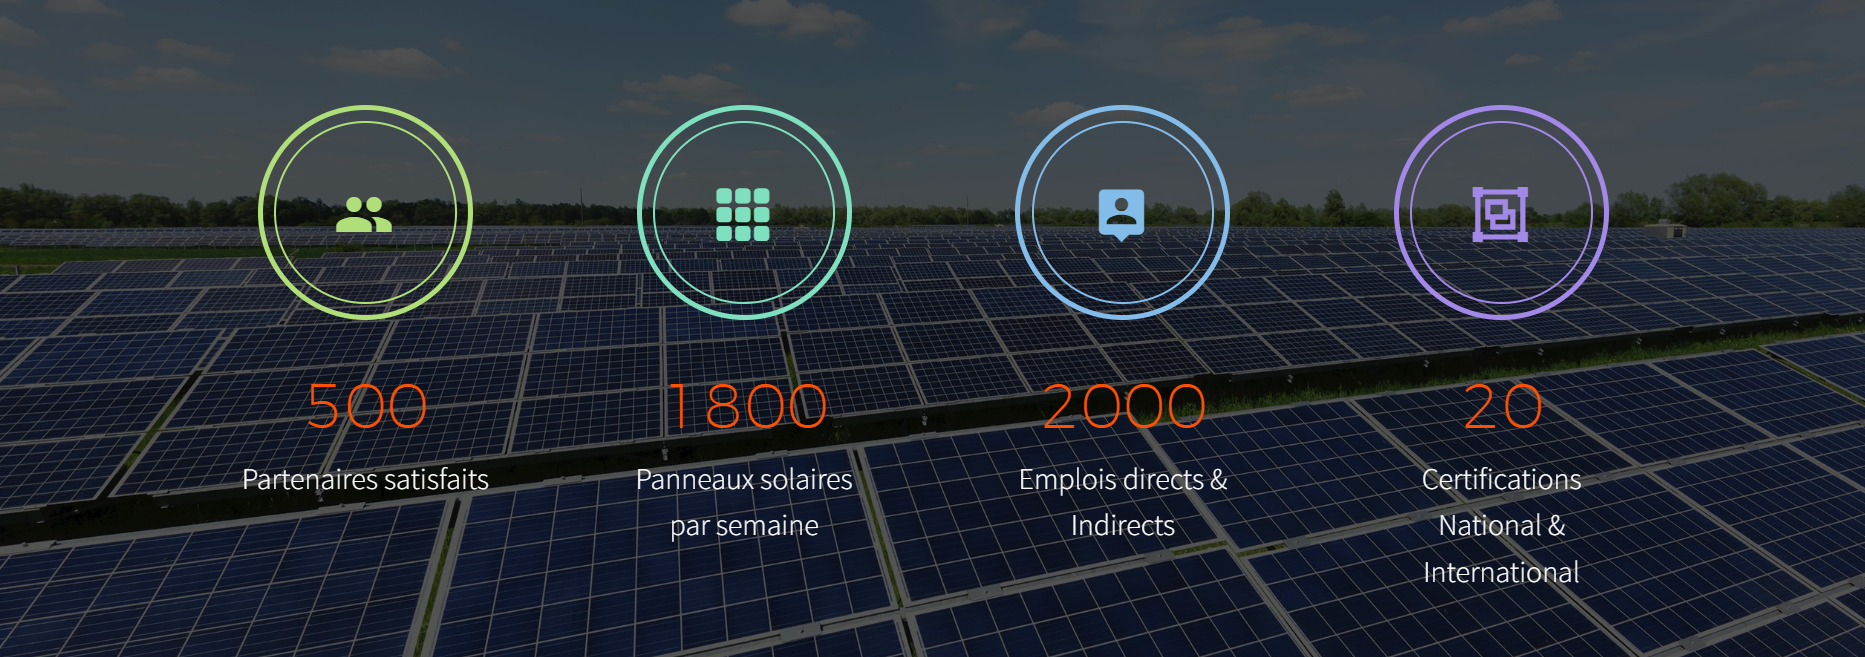
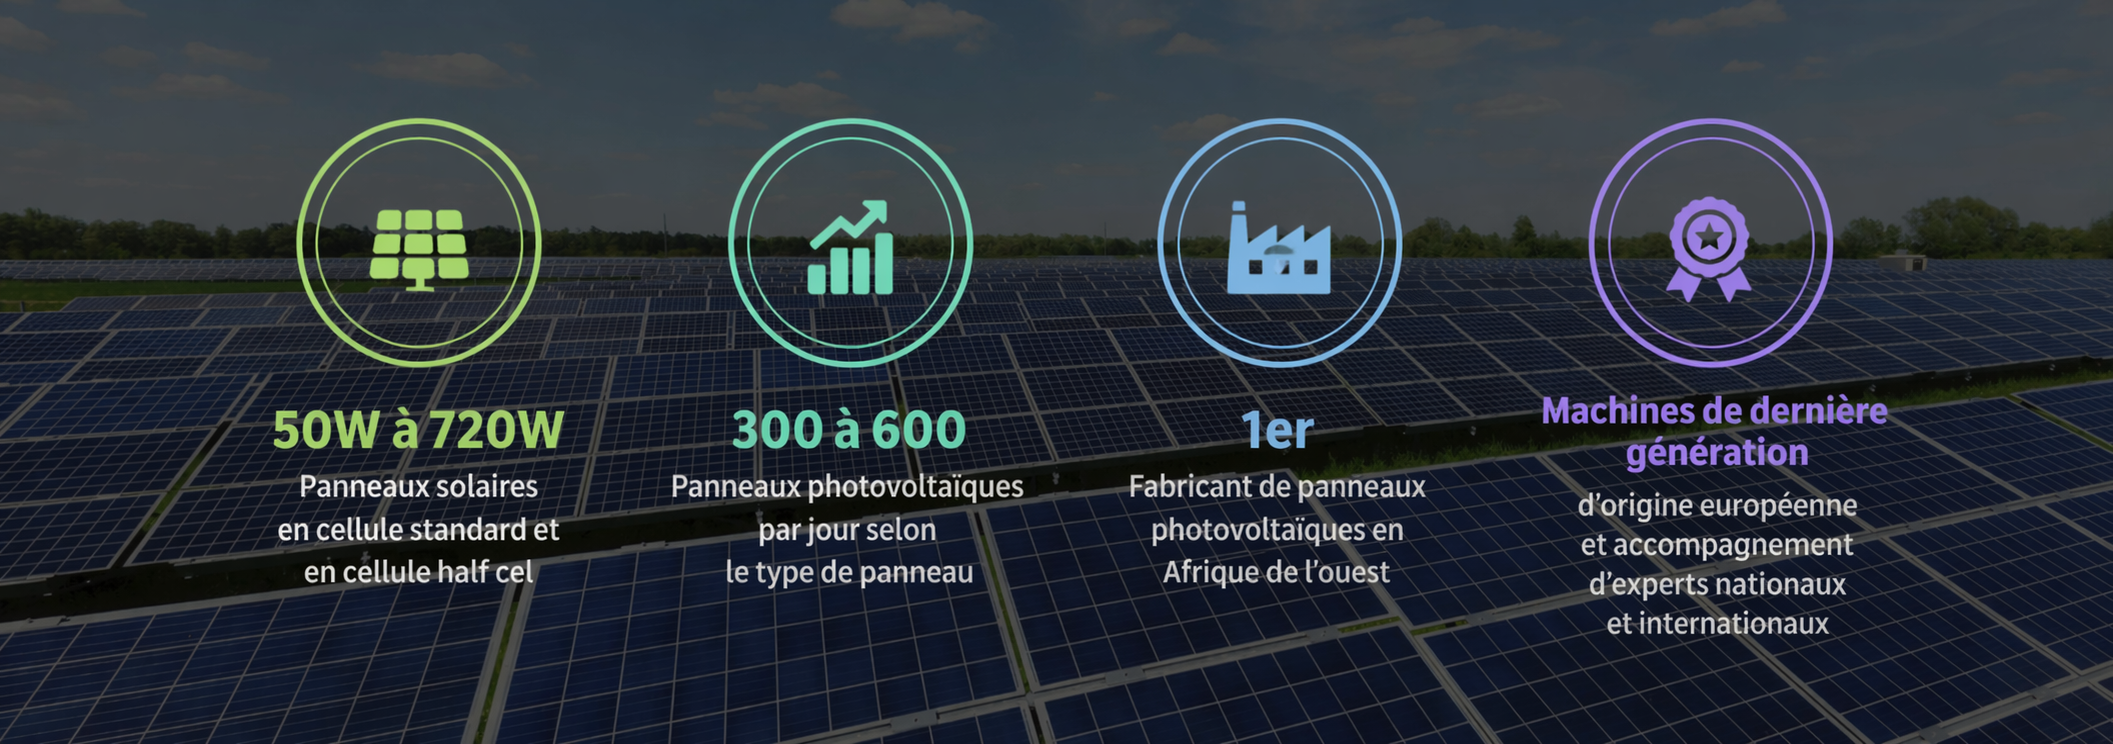
Mise à jour de l'application

Changed region(s): [[0.0, 0.1522, 1.0, 1.0], [0.933, 0.274, 0.9952, 0.3044]]

diff --git a/src/data/siteContent.js b/src/data/siteContent.js
@@ -510,8 +510,8 @@ export const subsidiaries = [
       },
       {
         tag: "GPL",
-        title: "Une offre Eco Gaz visible dans les supports",
-        text: "Les visuels de la filiale montrent aussi une offre GPL structurée autour des bouteilles Eco Gaz. Cet axe renforce le positionnement de proximité de la marque au-delà du carburant classique.",
+        title: "Offre Eco Gaz",
+        text: "Eco Oil propose des bouteilles de gaz qui repondent aux normes d'exigence en matière de sécurité. Elle se positionne comme un acteur clé de",
         image: {
           src: ecoOilGaz,
           alt: "Offre Eco Gaz de Eco Oil",
@@ -792,22 +792,44 @@ export const subsidiaries = [
     },
     logo: fasoEnergyLogo,
     watermarkLabel: "Faso Energy",
-    summary:
-      "Filiale industrielle dédiée à la fabrication de panneaux photovoltaïques, avec une ambition de production locale, de déploiement solaire et de montée en puissance régionale.",
-    description:
-      "Située dans la zone industrielle de Kossodo, Faso Energy se présente comme un acteur de la fabrication locale de panneaux photovoltaïques au Burkina Faso. Les supports montrent une vraie base industrielle, des équipes au travail, des lignes de fabrication, des panneaux en stockage et une communication orientée performance, qualité et transition énergétique.",
+    summary: "",
+    description: `Située dans la zone industrielle de Kossodo, Faso Energy est le premier fabriquant de panneaux photovoltaïques en Afrique de l’ouest.  Faso Energy se positionne comme un acteur clé dans la production de panneaux solaires. Grâce à des machines de dernière génération d’origine européenne et l’accompagnement d’experts nationaux et internationaux, Faso Energy répond aux besoins croissants en énergie renouvelable.
+A la clé, des plaques solaires de 50W à 720W sont produites en cellule standard et en cellule half cel. La capacité de production journalière est de 300 à 600 panneaux photovoltaïques par jour selon le type de panneau.`,
     facts: [
-      "Premier fabricant de panneaux photovoltaïques au Burkina Faso mis en avant dans les supports",
-      "1 800 panneaux solaires par semaine affichés dans la communication",
-      "2 000 emplois directs et indirects mis en avant",
-      "20 certifications nationales et internationales mentionnées",
-      "Projet de centrale solaire de 30 MW",
+      {
+        text: "Premier fabricant de panneaux photovoltaïques au Burkina Faso et dans la sous-région.",
+        tone: "green",
+      },
+      {
+        text: "300 à 600 panneaux photovoltaïques par jour",
+        tone: "blue",
+      },
+      {
+        text: "Des plaques solaires de 50W à 720W",
+        tone: "orange",
+      },
+      {
+        text: "Production en cellule standard et en cellule half cel",
+        tone: "purple",
+      },
+      {
+        text: "2 000 emplois directs et indirects",
+        tone: "pink",
+      },
+      {
+        text: "20 certifications nationales et internationales",
+        tone: "cyan",
+      },
+      {
+        text: "Projet de centrale solaire de 30 MW",
+        tone: "lime",
+      },
     ],
     focusCards: [
       {
         tag: "Production",
-        title: "Une chaîne locale de fabrication photovoltaïque",
-        text: "Les visuels montrent une activité industrielle concrète autour de l’assemblage et de la manipulation de panneaux solaires. Cette base locale renforce la crédibilité du discours industriel de la filiale.",
+        title: "Une chaîne de fabrication photovoltaïque",
+        text: "A la clé, des plaques solaires de 50W à 720W sont produites en cellule standard et en cellule half cel. La capacité de production journalière est de 300 à 600 panneaux photovoltaïques par jour selon le type de panneau.",
         image: {
           src: fasoEnergyFabrication,
           alt: "Fabrication de panneaux solaires chez Faso Energy",
@@ -817,8 +839,18 @@ export const subsidiaries = [
       },
       {
         tag: "Équipe",
-        title: "Des équipes visibles sur le site industriel",
-        text: "La communication de Faso Energy met aussi en avant les équipes mobilisées autour de la production, de l’encadrement et du transfert de savoir-faire, ce qui donne plus de substance humaine à la filiale.",
+        title: "L'Équipe de Faso Energy : Une force multiculturelle",
+        text: `Chez Faso Energy, notre équipe internationale et multiculturelle constitue notre plus grand atout. Mobilisée autour de la production et du transfert de savoir-faire, elle crée un environnement dynamique dans lequel chaque collaborateur apporte des compétences uniques et une réelle valeur ajoutée.
+
+          **Engagement et synergie**
+
+Nous sommes unis par une vision commune : proposer des solutions énergétiques durables et performantes. Grâce à la collaboration, à la complémentarité des expertises et à l’engagement de chacun, nous relevons les défis du secteur tout en contribuant activement au développement local.
+
+**Ensemble vers l’avenir**
+
+Notre culture du partage, de l’apprentissage et de la formation continue favorise l’épanouissement professionnel de chacun. Ensemble, nous construisons un avenir énergétique meilleur, centré sur l’humain, l’innovation et la durabilité.
+
+Rejoignez-nous pour transformer l’énergie!`,
         image: {
           src: fasoEnergyTeam,
           alt: "Équipe Faso Energy sur le site industriel",
@@ -830,7 +862,7 @@ export const subsidiaries = [
         tag: "Performance",
         title:
           "Une communication structurée autour des capacités et des repères",
-        text: "Un visuel dédié met en avant 500 partenaires satisfaits, 1 800 panneaux solaires par semaine, 2 000 emplois directs et indirects ainsi que 20 certifications. Ces repères sont utilisés ici comme éléments de communication institutionnelle visibles dans les supports.",
+        text: "500 partenaires satisfaits, 300 à 600 panneaux solaires par jour selon le type de panneau, 2 000 emplois directs et indirects ainsi que 20 certifications.",
         image: {
           src: fasoEnergyStats,
           alt: "Indicateurs de performance Faso Energy",
@@ -841,8 +873,8 @@ export const subsidiaries = [
       },
       {
         tag: "Déploiement",
-        title: "Production, stockage et projection solaire",
-        text: "Au-delà de l’atelier, les images montrent aussi le stockage des panneaux et leur destination finale. Cela permet de présenter Faso Energy comme une filiale à la fois industrielle et tournée vers les usages concrets de l’énergie solaire.",
+        title: "Enlèvement des panneaux solaires : Un processus essentiel",
+        text: "L’enlèvement des panneaux solaires est une étape cruciale dans notre processus de production chez Faso Energy. Ce processus garantit que chaque panneau est transporté en toute sécurité vers son lieu d’installation, prêt à capter l’énergie solaire et à fournir des solutions durables.",
         image: {
           src: fasoEnergyStockage,
           alt: "Stockage de panneaux solaires Faso Energy",

diff --git a/src/pages/SubsidiaryPage.jsx b/src/pages/SubsidiaryPage.jsx
@@ -74,12 +74,20 @@ function SubsidiaryPage() {
         />
 
         <div className="detail-facts-grid">
-          {subsidiary.facts.map((fact) => (
-            <article className="content-card" key={fact}>
-              <p>{fact}</p>
-            </article>
-          ))}
-        </div>
+  {subsidiary.facts.map((fact, index) => {
+    const factText = typeof fact === "string" ? fact : fact.text;
+    const factTone = typeof fact === "string" ? "" : fact.tone;
+
+    return (
+      <article
+        className={`content-card fact-card ${factTone ? `fact-card--${factTone}` : ""}`}
+        key={`${factText}-${index}`}
+      >
+        <p>{factText}</p>
+      </article>
+    );
+  })}
+</div>
       </section>
 
       {subsidiary.focusCards?.length ? (
@@ -92,25 +100,45 @@ function SubsidiaryPage() {
           />
 
           <div className="subsidiary-focus-grid">
-            {subsidiary.focusCards.map((item) => (
-              <article className="content-card subsidiary-focus-card" key={item.title}>
-                {item.image ? (
-                  <div className="subsidiary-focus-media">
-                    <img
-                      src={item.image.src}
-                      alt={item.image.alt ?? item.title}
-                      style={getSubsidiaryMediaStyle(item.image, 'focus')}
-                    />
-                  </div>
-                ) : null}
-                <div className="subsidiary-focus-copy">
-                  <p className="mini-text">{item.tag}</p>
-                  <h3>{item.title}</h3>
-                  <p>{item.text}</p>
-                </div>
-              </article>
-            ))}
-          </div>
+  {subsidiary.focusCards.map((item) => (
+    <article className="content-card subsidiary-focus-card" key={item.title}>
+      {item.image ? (
+        <div className="subsidiary-focus-media">
+          <img
+            src={item.image.src}
+            alt={item.image.alt ?? item.title}
+            style={getSubsidiaryMediaStyle(item.image, 'focus')}
+          />
+        </div>
+      ) : null}
+      <div className="subsidiary-focus-copy">
+        <p className="mini-text">{item.tag}</p>
+        <h3>{item.title}</h3>
+        <div className="focus-card-text">
+          {String(item.text)
+            .split("\n\n")
+            .map((paragraph, index) => {
+              const trimmed = paragraph.trim();
+
+              if (!trimmed) {
+                return null;
+              }
+
+              if (trimmed.startsWith("**") && trimmed.endsWith("**")) {
+                return (
+                  <p key={index}>
+                    <strong>{trimmed.slice(2, -2)}</strong>
+                  </p>
+                );
+              }
+
+              return <p key={index}>{trimmed}</p>;
+            })}
+        </div>
+      </div>
+    </article>
+  ))}
+</div>
         </section>
       ) : null}
 

diff --git a/src/styles.css b/src/styles.css
@@ -2504,3 +2504,58 @@ h1, h2, h3, p, li, a, span {
   .news-highlight-body { gap: 14px; }
   .footer-main { padding: 20px; }
 }
+.fact-card {
+  min-height: 160px;
+  padding: 28px;
+  border-radius: 24px;
+  border: 1px solid #d9e3de;
+  text-align: center;
+  display: flex;
+  align-items: center;
+  justify-content: center;
+  box-shadow: 0 10px 24px rgba(0, 0, 0, 0.06);
+}
+
+.fact-card p {
+  margin: 0;
+  line-height: 1.5;
+}
+
+.fact-card--green {
+  background-color: #e8f5e9;
+}
+
+.fact-card--blue {
+  background-color: #e3f2fd;
+}
+
+.fact-card--orange {
+  background-color: #fff3e0;
+}
+
+.fact-card--purple {
+  background-color: #f3e5f5;
+}
+
+.fact-card--pink {
+  background-color: #fce4ec;
+}
+
+.fact-card--cyan {
+  background-color: #e0f7fa;
+}
+
+.fact-card--lime {
+  background-color: #f1f8e9;
+}
+.focus-card-text {
+  line-height: 1.7;
+}
+
+.focus-card-text strong {
+  font-weight: 700;
+}
+
+.focus-card-text p {
+  margin: 0 0 12px;
+}
